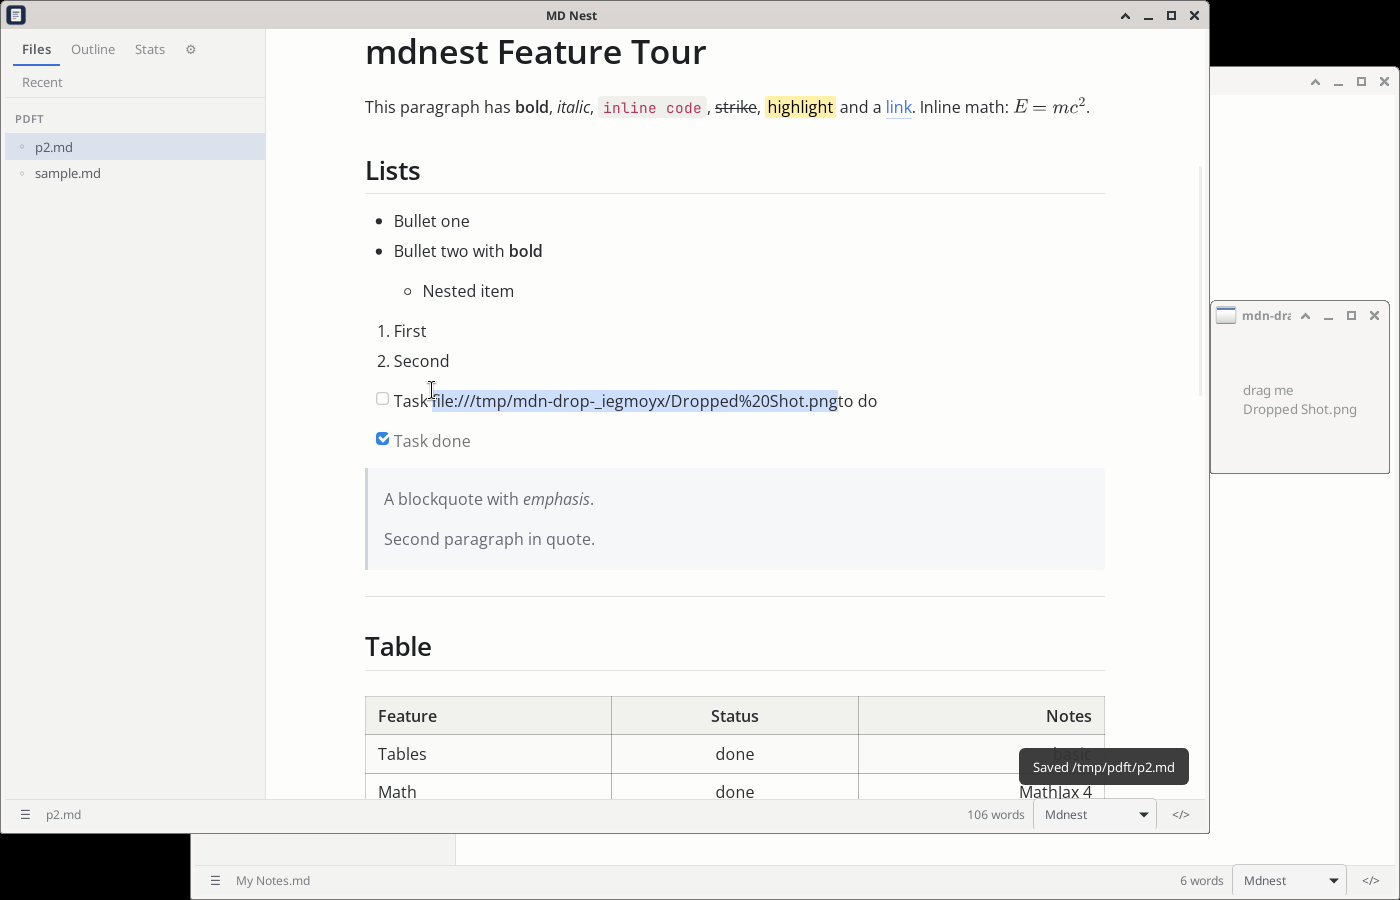
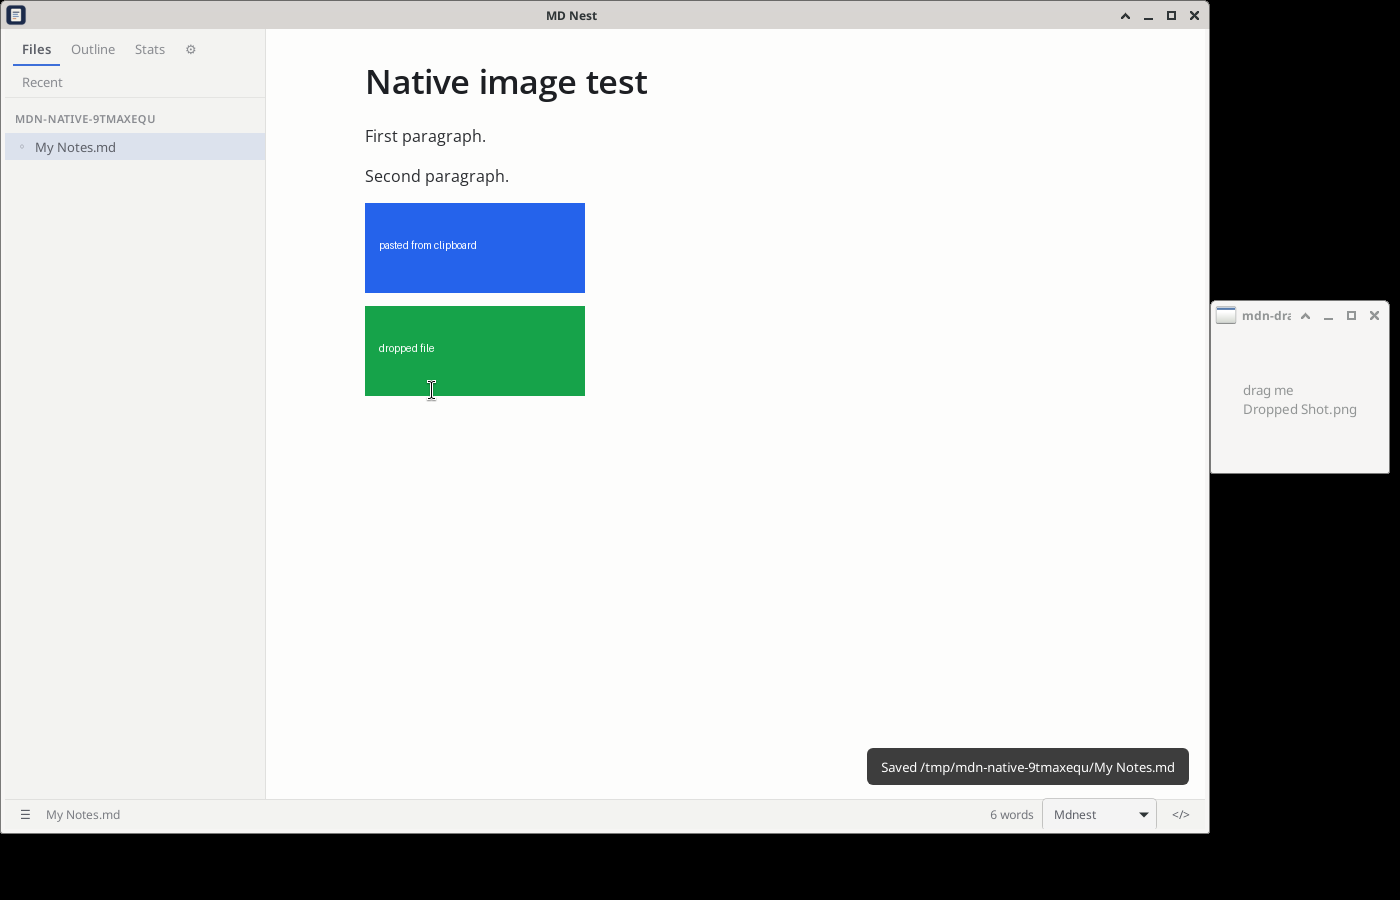
Native image paste/drop on WebKitGTK: import blob: images from the captured paste slice, file:// URIs from drop html/uri-list/plain, copy_file command; --debug-log; cli_file skips flag values; native Xvfb test (tests/native) + browser tests

diff --git a/src/shell/images.ts b/src/shell/images.ts
@@ -18,12 +18,72 @@ function toBase64(buf: ArrayBuffer) {
 }
 const stamp = () => { const d = new Date(), p = (n: number) => String(n).padStart(2, "0"); return `${d.getFullYear()}${p(d.getMonth() + 1)}${p(d.getDate())}-${p(d.getHours())}${p(d.getMinutes())}${p(d.getSeconds())}`; };
 
-export function imageFiles(list: FileList | null | undefined): File[] {
-  return list ? [...list].filter((f) => f.type.startsWith("image/")) : [];
+const IMG_EXT = /\.(png|jpe?g|gif|webp|svg|bmp|avif|ico|tiff?)$/i;
+/** an image to import: clipboard/dropped bytes, or a local file path (native drops from file managers) */
+export type ImageItem = File | { path: string };
+
+/**
+ * Images carried by a paste/drop. WebKitGTK does not always expose dropped files as `files` (a drag
+ * from a GTK file manager arrives as `text/uri-list` only, and the default action would insert the URI
+ * as text), and it may leave `File.type` empty — so accept image extensions and file:// URIs too.
+ */
+export function collectImages(dt: DataTransfer | null | undefined): ImageItem[] {
+  if (!dt) return [];
+  const all = [...(dt.files ?? [])];
+  if (!all.length) for (const it of [...(dt.items ?? [])]) if (it.kind === "file") { const f = it.getAsFile(); if (f) all.push(f); }
+  const files = all.filter((f) => f.type.startsWith("image/") || (!f.type && IMG_EXT.test(f.name)));
+  if (files.length) return files;
+  let raw = dt.getData("text/uri-list") || dt.getData("x-special/gnome-copied-files") || "";
+  // WebKitGTK hands a GTK uri-list drag to the page as text/plain only
+  const plain = dt.getData("text/plain") || "";
+  if (!raw && plain.trim() && plain.trim().split(/\r?\n/).every((l) => l.trim().startsWith("file://"))) raw = plain;
+  // …and keeps text/uri-list unreadable during drop, while text/html carries <a href="file://…">
+  if (!raw) {
+    const html = dt.getData("text/html") || "";
+    if (/file:\/\//i.test(html)) {
+      const d = new DOMParser().parseFromString(html, "text/html");
+      // WebKitGTK renders the dragged URI as <a>file:///…</a> (no href)
+      raw = [...d.querySelectorAll("a, img[src]")].map((e) => e.getAttribute("href") ?? e.getAttribute("src") ?? e.textContent ?? "")
+        .map((u) => u.trim()).filter((u) => /^file:\/\//i.test(u)).join("\n");
+    }
+  }
+  const list = raw.split(/\r?\n/);
+  const paths = list.map((l) => l.trim()).filter((l) => l.startsWith("file://"))
+    .map((u) => { try { return decodeURIComponent(new URL(u).pathname); } catch { return ""; } })
+    .filter((p) => p && IMG_EXT.test(p));
+  return paths.map((path) => ({ path }));
 }
 
+/**
+ * WebKitGTK pastes a clipboard image as HTML (`<img src="blob:…">`) without exposing a File. If the
+ * pasted HTML is nothing but images with blob:/data: sources, fetch their bytes into Files.
+ */
+export async function imagesFromPastedHtml(html: string): Promise<File[]> {
+  if (!html || !/<img/i.test(html)) return [];
+  const doc = new DOMParser().parseFromString(html, "text/html");
+  const imgs = [...doc.querySelectorAll("img")];
+  if (!imgs.length || (doc.body.textContent || "").trim()) return [];
+  const out: File[] = [];
+  for (const img of imgs) {
+    const src = img.getAttribute("src") || "";
+    if (!/^(blob|data):/i.test(src)) return [];
+    try {
+      const b = await (await fetch(src)).blob();
+      const type = b.type && b.type.startsWith("image/") ? b.type : "image/png";
+      out.push(new File([b], "image." + (EXT[type] ?? "png"), { type }));
+    } catch { return []; }
+  }
+  return out;
+}
+export const pastedHtmlIsOnlyImages = (html: string) => {
+  if (!html || !/<img/i.test(html)) return false;
+  const doc = new DOMParser().parseFromString(html, "text/html");
+  const imgs = [...doc.querySelectorAll("img")];
+  return imgs.length > 0 && !(doc.body.textContent || "").trim() && imgs.every((i) => /^(blob|data):/i.test(i.getAttribute("src") || ""));
+};
+
 /** saves files and inserts image nodes at `pos` (or the selection). Returns false if not handled. */
-export async function insertImageFiles(view: EditorView, host: Host, docPath: string | null, files: File[], pos: number | null, notify: (m: string) => void) {
+export async function insertImageFiles(view: EditorView, host: Host, docPath: string | null, files: ImageItem[], pos: number | null, notify: (m: string) => void) {
   if (!files.length) return false;
   if (!docPath) { notify("Save the document first — images are copied next to it."); return true; }
   const dir = docPath.replace(/[\\/][^\\/]*$/, ""), stem = docPath.replace(/^.*[\\/]/, "").replace(/\.[^.]+$/, "");
@@ -31,11 +91,14 @@ export async function insertImageFiles(view: EditorView, host: Host, docPath: st
   const relClean = rel.replace(/^\.\//, "");
   const nodes: PMNode[] = [];
   for (const f of files) {
-    const ext = EXT[f.type] ?? (f.name.split(".").pop() || "png");
-    const base = f.name && !/^image\.(png|jpe?g)$/i.test(f.name) ? sanitize(f.name.replace(/\.[^.]+$/, "")) : `image-${stamp()}`;
+    const fname = f instanceof File ? f.name : f.path.replace(/^.*[\\/]/, "");
+    const ext = (f instanceof File ? EXT[f.type] : undefined) ?? (fname.includes(".") ? fname.split(".").pop()!.toLowerCase() : "png");
+    const base = fname && !/^image\.(png|jpe?g)$/i.test(fname) ? sanitize(fname.replace(/\.[^.]+$/, "")) : `image-${stamp()}`;
     const target = `${dir}/${relClean}/${base}.${ext}`;
     try {
-      const final = await host.writeBinary(target, toBase64(await f.arrayBuffer()), true);
+      const final = f instanceof File
+        ? await host.writeBinary(target, toBase64(await f.arrayBuffer()), true)
+        : await host.copyFile(f.path, target, true);
       const name = final.replace(/^.*[\\/]/, "");
       const src = (relClean ? relClean + "/" : "") + name;
       nodes.push(schema.nodes.image.create({ src: src.split("/").map(encodeURIComponent).join("/"), alt: base }));

diff --git a/src/editor/editor.ts b/src/editor/editor.ts
@@ -11,6 +11,7 @@ import { markersPlugin, collapseAll } from "./markers";
 import { tableToolbarPlugin } from "./tabletools";
 import { searchPlugin } from "./search";
 import { nodeViews, tocViews } from "./views";
+import { collectImages, imagesFromPastedHtml, pastedHtmlIsOnlyImages, type ImageItem } from "../shell/images";
 import { buildInputRules, buildKeymaps } from "./rules";
 import type { DecorationProvider } from "../plugins/api";
 
@@ -19,7 +20,7 @@ export interface EditorHooks {
   keys: Parameters<typeof buildKeymaps>[1];
   decorationProviders: DecorationProvider[];
   /** pasted / dropped image files; return true when handled */
-  onImageFiles?: (files: File[], pos: number | null) => boolean;
+  onImageFiles?: (files: ImageItem[], pos: number | null) => boolean;
 }
 
 const extKey = new PluginKey("ext-decos");
@@ -71,13 +72,30 @@ export function createEditor(mount: HTMLElement, markdown: string, hooks: Editor
       if (node.type.name === "image") { view.dispatch(view.state.tr.setSelection(NodeSelection.create(view.state.doc, nodePos))); return true; }
       return false;
     },
-    handlePaste(view, event) {
-      const files = [...(event.clipboardData?.files ?? [])].filter((f) => f.type.startsWith("image/"));
-      if (files.length && hooks.onImageFiles) return hooks.onImageFiles(files, null);
+    handlePaste(view, event, slice) {
+      // WebKitGTK: the paste event carries no clipboardData, so ProseMirror captures the native paste in
+      // a hidden element and hands us a slice holding <img src="blob:…">. Import those bytes instead.
+      const srcs: string[] = []; let other = false;
+      slice.content.descendants((n) => { if (n.type.name === "image") { if (/^(blob|data):/i.test(n.attrs.src)) srcs.push(n.attrs.src); else other = true; } else if (n.isText && n.text!.trim()) other = true; return true; });
+      if (srcs.length && !other && hooks.onImageFiles && !(event.clipboardData?.files?.length)) {
+        const pos = view.state.selection.from;
+        imagesFromPastedHtml(srcs.map((s) => `<img src="${s.replace(/"/g, "&quot;")}">`).join("")).then((f) => { if (f.length) hooks.onImageFiles!(f, pos); });
+        return true;
+      }
+      const files = collectImages(event.clipboardData);
+      if (files.length && hooks.onImageFiles) { event.preventDefault(); return hooks.onImageFiles(files, null); }
+      // WebKitGTK: a clipboard image arrives as <img src="blob:…"> HTML only
+      const html = event.clipboardData?.getData("text/html") ?? "";
+      if (hooks.onImageFiles && pastedHtmlIsOnlyImages(html)) {
+        event.preventDefault();
+        const pos = view.state.selection.from;
+        imagesFromPastedHtml(html).then((f) => { if (f.length) hooks.onImageFiles!(f, pos); });
+        return true;
+      }
       return false;
     },
     handleDrop(view, event) {
-      const files = [...((event as DragEvent).dataTransfer?.files ?? [])].filter((f) => f.type.startsWith("image/"));
+      const files = collectImages((event as DragEvent).dataTransfer);
       if (!files.length || !hooks.onImageFiles) return false;
       const p = view.posAtCoords({ left: (event as DragEvent).clientX, top: (event as DragEvent).clientY });
       event.preventDefault();

diff --git a/src/main.ts b/src/main.ts
@@ -267,6 +267,21 @@ window.addEventListener("beforeunload", (e) => { if (state.dirty && host.kind ==
   const args = await host.cliArgs().catch(() => [] as string[]);
   const arg = (k: string) => { const i = args.indexOf(k); return i >= 0 ? args[i + 1] : null; };
   if (arg("--theme")) { await themes.apply(arg("--theme")!); sel.value = themes.current; }
+  // --debug-log PATH: write clipboard/drag-and-drop event diagnostics to PATH (native testing aid)
+  if (arg("--debug-log")) {
+    const out = arg("--debug-log")!; const lines: string[] = []; let t: any = 0;
+    const log = (m: string) => { lines.push(new Date().toISOString().slice(11, 23) + " " + m); clearTimeout(t); t = setTimeout(() => host.writeFile(out, lines.join("\n") + "\n").catch(() => {}), 200); };
+    (window as any).mdnestDebug = log;
+    for (const ev of ["paste", "drop", "beforeinput"]) document.addEventListener(ev, (e: any) => {
+      const dt: DataTransfer | null = e.clipboardData ?? e.dataTransfer ?? null;
+      const types = dt ? [...dt.types].join(",") : "-";
+      const files = dt ? [...dt.files].map((f) => f.name + ":" + f.type + ":" + f.size).join(",") : "";
+      const items = dt ? [...(dt.items ?? [])].map((i) => i.kind + ":" + i.type).join(",") : "";
+      const data = dt ? [...dt.types].map((k) => k + "=" + JSON.stringify((() => { try { return dt.getData(k); } catch { return "?"; } })().replace(/ style="[^"]*"/g, "").slice(0, 400))).join(" ") : "";
+      log(`${ev}${e.inputType ? "(" + e.inputType + ")" : ""} types=[${types}] files=[${files}] items=[${items}] ${data}`);
+    }, true);
+    log("debug log on");
+  }
   try {
     if (arg("--export-html")) await exportHtml(arg("--export-html")!);
     if (arg("--export-pdf")) await exportPdf(arg("--export-pdf")!);

diff --git a/src/host/browser.ts b/src/host/browser.ts
@@ -13,6 +13,11 @@ export const browserHost: Host = {
   fileUrl(abs) { return "/fs" + abs; },
   async cliFile() { return null; },
   async cliArgs() { return []; },
+  async copyFile(src, dest, unique) { // dev server: only inside the sandboxed workspace
+    const r = await fetch("/fs" + src); if (!r.ok) throw new Error("cannot read " + src);
+    const b = new Uint8Array(await r.arrayBuffer()); let bin = ""; for (let i = 0; i < b.length; i += 0x8000) bin += String.fromCharCode(...b.subarray(i, i + 0x8000));
+    return this.writeBinary(dest, btoa(bin), unique);
+  },
   async writeBinary(path, data, unique) { return (await j(await fetch("/api/writeb", { method: "POST", headers: { "content-type": "application/json" }, body: JSON.stringify({ path, data, unique }) }))).path; },
   async mtime(path) { return (await j(await fetch("/api/mtime?path=" + encodeURIComponent(path)))).mtime; },
   async exportPdf() { throw new Error("unsupported"); },

diff --git a/src/host/types.ts b/src/host/types.ts
@@ -16,6 +16,7 @@ export interface Host {
   cliFile(): Promise<string | null>;        // file passed on the command line, if any
   cliArgs(): Promise<string[]>;
   writeBinary(path: string, base64: string, unique: boolean): Promise<string>; // returns final path
+  copyFile(src: string, dest: string, unique: boolean): Promise<string>; // returns final path
   mtime(path: string): Promise<number | null>;
   exportPdf(html: string, outPath: string): Promise<void>; // throws "unsupported" where no native path exists
   quit(code?: number): Promise<void>;

diff --git a/src/host/tauri.ts b/src/host/tauri.ts
@@ -18,6 +18,7 @@ export const tauriHost: Host = {
   cliFile: () => invoke<string | null>("cli_file"),
   cliArgs: () => invoke<string[]>("cli_args"),
   writeBinary: (path, data, unique) => invoke<string>("write_binary_file", { path, data, unique }),
+  copyFile: (src, dest, unique) => invoke<string>("copy_file", { src, dest, unique }),
   mtime: (path) => invoke<number | null>("file_mtime", { path }),
   exportPdf: (html, out) => invoke<void>("export_pdf", { html, out }),
   quit: (code = 0) => invoke<void>("quit_app", { code }),

diff --git a/src-tauri/src/commands.rs b/src-tauri/src/commands.rs
@@ -151,7 +151,16 @@ pub async fn default_workspace() -> Option<String> {
 /// First non-flag CLI argument, resolved to an absolute path ("open with" / `mdnest file.md`).
 #[tauri::command]
 pub async fn cli_file() -> Option<String> {
-    let arg = std::env::args().skip(1).find(|a| !a.starts_with('-'))?;
+    // skip flags and the values of flags that take one
+    const WITH_VALUE: [&str; 4] = ["--theme", "--export-html", "--export-pdf", "--debug-log"];
+    let args: Vec<String> = std::env::args().skip(1).collect();
+    let mut arg = None; let mut i = 0;
+    while i < args.len() {
+        if WITH_VALUE.contains(&args[i].as_str()) { i += 2; continue; }
+        if !args[i].starts_with('-') { arg = Some(args[i].clone()); break; }
+        i += 1;
+    }
+    let arg = arg?;
     let p = std::path::PathBuf::from(arg);
     let abs = if p.is_absolute() { p } else { std::env::current_dir().ok()?.join(p) };
     abs.is_file().then(|| abs.to_string_lossy().into_owned())
@@ -174,6 +183,26 @@ pub async fn write_binary_file(path: String, data: String, unique: bool) -> Resu
         loop { let cand = parent.join(format!("{stem}-{i}{ext}")); if !cand.exists() { dest = cand; break; } i += 1; }
     }
     fs::write(&dest, bytes).map_err(|e| e.to_string())?;
+    Ok(dest.to_string_lossy().into_owned())
+}
+
+/// Copy a local file (e.g. an image dropped from a file manager) to `dest`, creating parent folders.
+/// With `unique`, an existing destination gets a "-1", "-2", … suffix. Returns the final path.
+#[tauri::command]
+pub async fn copy_file(src: String, dest: String, unique: bool) -> Result<String, String> {
+    let meta = fs::metadata(&src).map_err(|e| format!("{src}: {e}"))?;
+    if !meta.is_file() { return Err(format!("{src}: not a file")); }
+    let mut dest = std::path::PathBuf::from(&dest);
+    if let Some(parent) = dest.parent() { fs::create_dir_all(parent).map_err(|e| e.to_string())?; }
+    if fs::canonicalize(&src).ok() == fs::canonicalize(&dest).ok() { return Ok(dest.to_string_lossy().into_owned()); }
+    if unique && dest.exists() {
+        let stem = dest.file_stem().map(|s| s.to_string_lossy().into_owned()).unwrap_or_default();
+        let ext = dest.extension().map(|s| format!(".{}", s.to_string_lossy())).unwrap_or_default();
+        let parent = dest.parent().map(|p| p.to_path_buf()).unwrap_or_default();
+        let mut i = 1;
+        loop { let cand = parent.join(format!("{stem}-{i}{ext}")); if !cand.exists() { dest = cand; break; } i += 1; }
+    }
+    fs::copy(&src, &dest).map_err(|e| e.to_string())?;
     Ok(dest.to_string_lossy().into_owned())
 }
 

diff --git a/tests/native/image-paste-drop.py b/tests/native/image-paste-drop.py
@@ -26,7 +26,8 @@ def saved(): return open(doc).read()
 # keyboard focus needs a window manager on the test display (bare Xvfb never focuses the toplevel)
 wm = sp.Popen(["xfwm4", "--compositor=off"], env=env, stdout=sp.DEVNULL, stderr=sp.DEVNULL) if shutil.which("xfwm4") else None
 time.sleep(1.5)
-app = sp.Popen([BIN, doc], env=penv, stdout=sp.DEVNULL, stderr=sp.DEVNULL)
+DBG = os.path.join(work, "debug.log")
+app = sp.Popen([BIN, doc, "--debug-log", DBG], env=penv, stdout=sp.DEVNULL, stderr=sp.DEVNULL)
 try:
     win = ""
     for _ in range(40):
@@ -74,6 +75,7 @@ try:
 finally:
     app.terminate(); app.wait(5); sp.run(["pkill", "-f", "xclip -selection clipboard"], env=env)
     if wm: wm.terminate()
+if os.path.exists(DBG): print(open(DBG).read()[-1500:], file=sys.stderr)
 fail = [r for r in res if not r["pass"]]
 print(json.dumps({"passed": len(res) - len(fail), "failed": len(fail), "results": res, "work": work}, indent=1, ensure_ascii=False))
 sys.exit(1 if fail else 0)

diff --git a/src-tauri/src/lib.rs b/src-tauri/src/lib.rs
@@ -83,7 +83,7 @@ pub fn run() {
             commands::list_themes,
             commands::default_workspace,
             commands::cli_file,
-            commands::write_binary_file,
+            commands::write_binary_file, commands::copy_file,
             commands::file_mtime,
             commands::cli_args,
             commands::quit_app,
